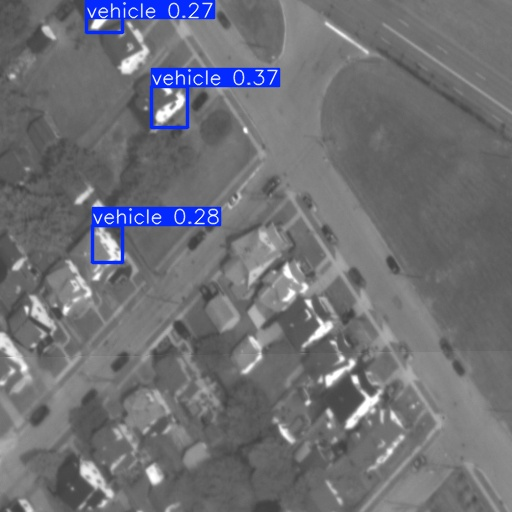
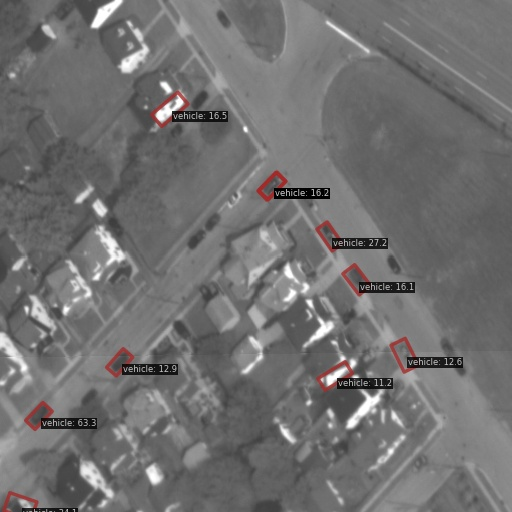
detr inference script now running

diff --git a/src/detr_on_image.py b/src/detr_on_image.py
@@ -1,59 +1,217 @@
 import os
 import sys
-import torch
+import re
+import inspect
 from functools import partial
 
+# ---------------------------------------------------------
+# AUTO-PATCHER (Fixes Python 3.9 typing crash in external file)
+# ---------------------------------------------------------
+def patch_prob_iou():
+    target_file = os.path.abspath('./O2-RT-DETR/projects/rotated_rtdetr/rotated_rtdetr/prob_iou.py')
+    if os.path.exists(target_file):
+        with open(target_file, 'r') as f:
+            content = f.read()
+        if '| np.ndarray' in content:
+            fixed_content = re.sub(
+                r'obb1:\s*torch\.Tensor\s*\|\s*np\.ndarray,\s*obb2:\s*torch\.Tensor\s*\|\s*np\.ndarray',
+                'obb1, obb2', 
+                content
+            )
+            with open(target_file, 'w') as f:
+                f.write(fixed_content)
+            print("Successfully patched 'prob_iou.py' for Python 3.9 compatibility!")
+
+patch_prob_iou()
+# ---------------------------------------------------------
+
+# Path injections placed at the top so MMEngine can resolve submodules
+sys.path.append(os.path.abspath('./O2-RT-DETR'))
+sys.path.append(os.path.abspath('./O2-RT-DETR/projects/rotated_rtdetr'))
+
+import torch
 import mmcv
-import mmrotate
-from mmdet.apis import init_detector, inference_detector
-from mmengine.registry import VISUALIZERS, DATASETS
-from mmrotate.datasets import DOTADataset
 
 # ---------------------------------------------------------
-# GLOBAL PATCHES
+# GLOBAL PATCHES (MUST happen before MMDetection APIs load)
 # ---------------------------------------------------------
-# 1. Tell PyTorch 2.6+ to trust our MMEngine checkpoint and load custom objects
+
+import mmdet.structures.bbox.box_type as box_type_module
+
+# 1. Preserving Box Registry Bypass
+# Force-registers boxes while preserving existing class mappings in _box_type_to_name
+_orig_register_box = box_type_module._register_box
+def _force_register_box(name, box_type, *args, **kwargs):
+    old_type_mappings = dict(box_type_module._box_type_to_name)
+    kwargs['force'] = True
+    res = _orig_register_box(name, box_type, *args, **kwargs)
+    # Restore any previously registered box classes so get_box_type() never fails
+    for b_type, b_info in old_type_mappings.items():
+        if b_type not in box_type_module._box_type_to_name:
+            box_type_module._box_type_to_name[b_type] = b_info
+    return res
+
+box_type_module._register_box = _force_register_box
+
+# 2. The Ultimate Box CONVERTER Registry Bypass
+_orig_register_converter = box_type_module._register_box_converter
+def _force_register_converter(*args, **kwargs):
+    kwargs['force'] = True
+    return _orig_register_converter(*args, **kwargs)
+box_type_module._register_box_converter = _force_register_converter
+
+# 3. Dynamic Transform Registry Auto-Resolver
+from mmengine.registry import TRANSFORMS
+_orig_transforms_build = TRANSFORMS.build
+
+def _auto_resolve_transforms_build(cfg, *args, **kwargs):
+    try:
+        return _orig_transforms_build(cfg, *args, **kwargs)
+    except KeyError as e:
+        t_name = None
+        if isinstance(cfg, dict):
+            t_name = cfg.get('type')
+        elif hasattr(cfg, 'type'):
+            t_name = getattr(cfg, 'type')
+            
+        if isinstance(t_name, str):
+            clean_name = t_name.split('::')[-1]
+            mod = None
+            
+            for module_path in [
+                'mmdet.datasets.transforms',
+                'mmrotate.datasets.transforms',
+                'mmengine.dataset.transforms'
+            ]:
+                try:
+                    imported_mod = __import__(module_path, fromlist=[clean_name])
+                    if hasattr(imported_mod, clean_name):
+                        mod = getattr(imported_mod, clean_name)
+                        break
+                except ImportError:
+                    continue
+            
+            if mod is not None:
+                TRANSFORMS.register_module(name=clean_name, module=mod, force=True)
+                TRANSFORMS.register_module(name=f'ai4rs::{clean_name}', module=mod, force=True)
+                TRANSFORMS.register_module(name=t_name, module=mod, force=True)
+                return _orig_transforms_build(cfg, *args, **kwargs)
+        raise e
+
+TRANSFORMS.build = _auto_resolve_transforms_build
+
+# 4. Universal DETR / DINO / RT-DETR Signature and Argument Auto-Bridge
+from mmdet.models.detectors.dino import DINO
+_orig_dino_forward_transformer = DINO.forward_transformer
+
+def _patched_dino_forward_transformer(self, *args, **kwargs):
+    if hasattr(self, 'decoder') and hasattr(self, 'bbox_head'):
+        cls_b = getattr(self.bbox_head, 'cls_branches', None)
+        reg_b = getattr(self.bbox_head, 'reg_branches', None)
+        setattr(self.decoder, '_patch_cls_branches', cls_b)
+        setattr(self.decoder, '_patch_reg_branches', reg_b)
+
+        if not hasattr(self.decoder, '_forward_patched'):
+            orig_decoder_forward = self.decoder.forward
+            dec_sig = inspect.signature(orig_decoder_forward)
+            dec_has_var = any(p.kind == inspect.Parameter.VAR_KEYWORD for p in dec_sig.parameters.values())
+
+            def _robust_decoder_forward(*d_args, **d_kwargs):
+                if 'cls_branches' not in d_kwargs and 'cls_branches' in dec_sig.parameters:
+                    d_kwargs['cls_branches'] = getattr(self.decoder, '_patch_cls_branches', None)
+                if 'reg_branches' not in d_kwargs and 'reg_branches' in dec_sig.parameters:
+                    d_kwargs['reg_branches'] = getattr(self.decoder, '_patch_reg_branches', None)
+                
+                if not dec_has_var:
+                    valid_dec_params = set(dec_sig.parameters.keys())
+                    d_kwargs = {k: v for k, v in d_kwargs.items() if k in valid_dec_params}
+                return orig_decoder_forward(*d_args, **d_kwargs)
+
+            self.decoder.forward = _robust_decoder_forward
+            self.decoder._forward_patched = True
+
+    orig_fd = self.forward_decoder
+    fd_sig = inspect.signature(orig_fd)
+    fd_has_var = any(p.kind == inspect.Parameter.VAR_KEYWORD for p in fd_sig.parameters.values())
+
+    if not fd_has_var:
+        valid_fd_params = set(fd_sig.parameters.keys())
+        def _robust_fd(*f_args, **f_kwargs):
+            if 'cls_branches' in f_kwargs:
+                setattr(self.decoder, '_patch_cls_branches', f_kwargs['cls_branches'])
+            if 'reg_branches' in f_kwargs:
+                setattr(self.decoder, '_patch_reg_branches', f_kwargs['reg_branches'])
+
+            filtered_fd_kwargs = {k: v for k, v in f_kwargs.items() if k in valid_fd_params}
+            return orig_fd(*f_args, **filtered_fd_kwargs)
+        
+        self.__dict__['forward_decoder'] = _robust_fd
+
+    try:
+        return _orig_dino_forward_transformer(self, *args, **kwargs)
+    finally:
+        self.__dict__.pop('forward_decoder', None)
+
+DINO.forward_transformer = _patched_dino_forward_transformer
+
+# 5. Tell PyTorch 2.6+ to trust our MMEngine checkpoint and load custom objects
 torch.load = partial(torch.load, weights_only=False)
 
-# 2. Forcefully inject the missing dataset into the active registry
-DATASETS.register_module(name='DOTADataset', module=DOTADataset, force=True)
+# NOW we can safely import the APIs
+from mmdet.apis import init_detector, inference_detector
+from mmengine.registry import VISUALIZERS
+# ---------------------------------------------------------
 
 
-def generate_prediction_image(config_path, checkpoint_path, image_path, output_name="annotated_output.jpg", device='mps'):
+def generate_prediction_image(config_path, checkpoint_path, image_path, output_name="annotated_output.jpg", device='cpu'):
     """
     Loads an MMRotate-based custom RT-DETR model, runs inference, 
     and saves the image with oriented bounding boxes drawn.
     """
-    # Quick check to ensure your files exist
     if not os.path.exists(image_path):
         print(f"Error: Could not find image at {image_path}")
         return
     if not os.path.exists(config_path):
         print(f"Error: Could not find config at {config_path}")
         return
+    if not os.path.exists(checkpoint_path):
+        print(f"Error: Could not find model checkpoint at {checkpoint_path}")
+        return
+    
+    # 1. Intercept and modify the config in memory
+    from mmengine.config import Config
+    print(f"Loading config '{config_path}'...")
+    cfg = Config.fromfile(config_path)
+    
+    # Safely override the dataset type and inject custom class metainfo
+    if 'test_dataloader' in cfg and 'dataset' in cfg.test_dataloader:
+        if cfg.test_dataloader.dataset.get('type') == 'DOTADataset':
+            cfg.test_dataloader.dataset.type = 'mmrotate.DOTADataset'
+        cfg.test_dataloader.dataset.metainfo = dict(classes=('vehicle',))
         
-    # Ensure custom imports from your repo can be found
-    sys.path.append(os.path.abspath('./O2-RT-DETR'))
-    sys.path.append(os.path.abspath('./O2-RT-DETR/projects/rotated_rtdetr'))
+    if 'val_dataloader' in cfg and 'dataset' in cfg.val_dataloader:
+        if cfg.val_dataloader.dataset.get('type') == 'DOTADataset':
+            cfg.val_dataloader.dataset.type = 'mmrotate.DOTADataset'
+        cfg.val_dataloader.dataset.metainfo = dict(classes=('vehicle',))
+
+    # 2. Initialize the detector with the patched config
+    print(f"Initializing model with checkpoint '{checkpoint_path}'...")
+    model = init_detector(cfg, checkpoint_path, device=device)
     
-    # 1. Initialize the detector
-    print(f"Loading config '{config_path}' and model '{checkpoint_path}'...")
-    model = init_detector(config_path, checkpoint_path, device=device)
-    
-    # 2. Run inference
+    # 3. Run inference
     print("Running inference...")
     result = inference_detector(model, image_path)
     
-    # 3. Initialize visualizer from the config
+    # 4. Initialize visualizer from the config
     print("Drawing and saving results...")
     visualizer = VISUALIZERS.build(model.cfg.visualizer)
     visualizer.dataset_meta = model.dataset_meta
     
-    # 4. Load image for drawing using mmcv
+    # 5. Load image for drawing using mmcv
     img = mmcv.imread(image_path)
     img = mmcv.imconvert(img, 'bgr', 'rgb')
     
-    # 5. Draw and save the oriented bounding boxes
+    # 6. Draw and save the oriented bounding boxes
     visualizer.add_datasample(
         name='result',
         image=img,
@@ -61,18 +219,15 @@ def generate_prediction_image(config_path, checkpoint_path, image_path, output_n
         draw_gt=False,
         show=False,
         out_file=output_name,
-        pred_score_thr=0.3  # Adjust this threshold to filter out low-confidence boxes
+        pred_score_thr=0.1  # Adjust this threshold to filter out low-confidence boxes
     )
     
     print(f"Success! Annotated image saved to: {output_name}")
 
+
 if __name__ == "__main__":
-    # ---------------------------------------------------------
-    # Target File Paths
-    # ---------------------------------------------------------
-    
-    # Your custom config file
-    MY_CONFIG = "O2-RT-DETR/projects/rotated_rtdetr/configs/cowc_rtdetr_512.py"  
+    # Using the config stored in the runs folder to perfectly match the training state
+    MY_CONFIG = "runs/20260715_rtdetr_obb_512/cowc_rtdetr_512.py"  
     
     # The path to your PyTorch model weights
     MY_MODEL = "runs/20260715_rtdetr_obb_512/best_dota_mAP_epoch_27.pth"  
@@ -83,5 +238,5 @@ if __name__ == "__main__":
     # What you want the final saved image to be called
     MY_OUTPUT_IMAGE = "predictions_drawn.jpg" 
     
-    # Run the function (configured for Apple Silicon)
-    generate_prediction_image(MY_CONFIG, MY_MODEL, MY_IMAGE, MY_OUTPUT_IMAGE, device='mps')
+    # Run the function
+    generate_prediction_image(MY_CONFIG, MY_MODEL, MY_IMAGE, MY_OUTPUT_IMAGE, device='cpu')

diff --git a/O2-RT-DETR/projects/rotated_rtdetr/rotated_rtdetr/prob_iou.py b/O2-RT-DETR/projects/rotated_rtdetr/rotated_rtdetr/prob_iou.py
@@ -76,7 +76,7 @@ def probiou(obb1: torch.Tensor, obb2: torch.Tensor, CIoU: bool = False, eps: flo
         return iou - v * alpha  # CIoU
     return iou
 
-def batch_probiou(obb1: torch.Tensor | np.ndarray, obb2: torch.Tensor | np.ndarray, eps: float = 1e-7) -> torch.Tensor:
+def batch_probiou(obb1, obb2, eps: float = 1e-7) -> torch.Tensor:
     """
     Calculate the probabilistic IoU between oriented bounding boxes.
 
